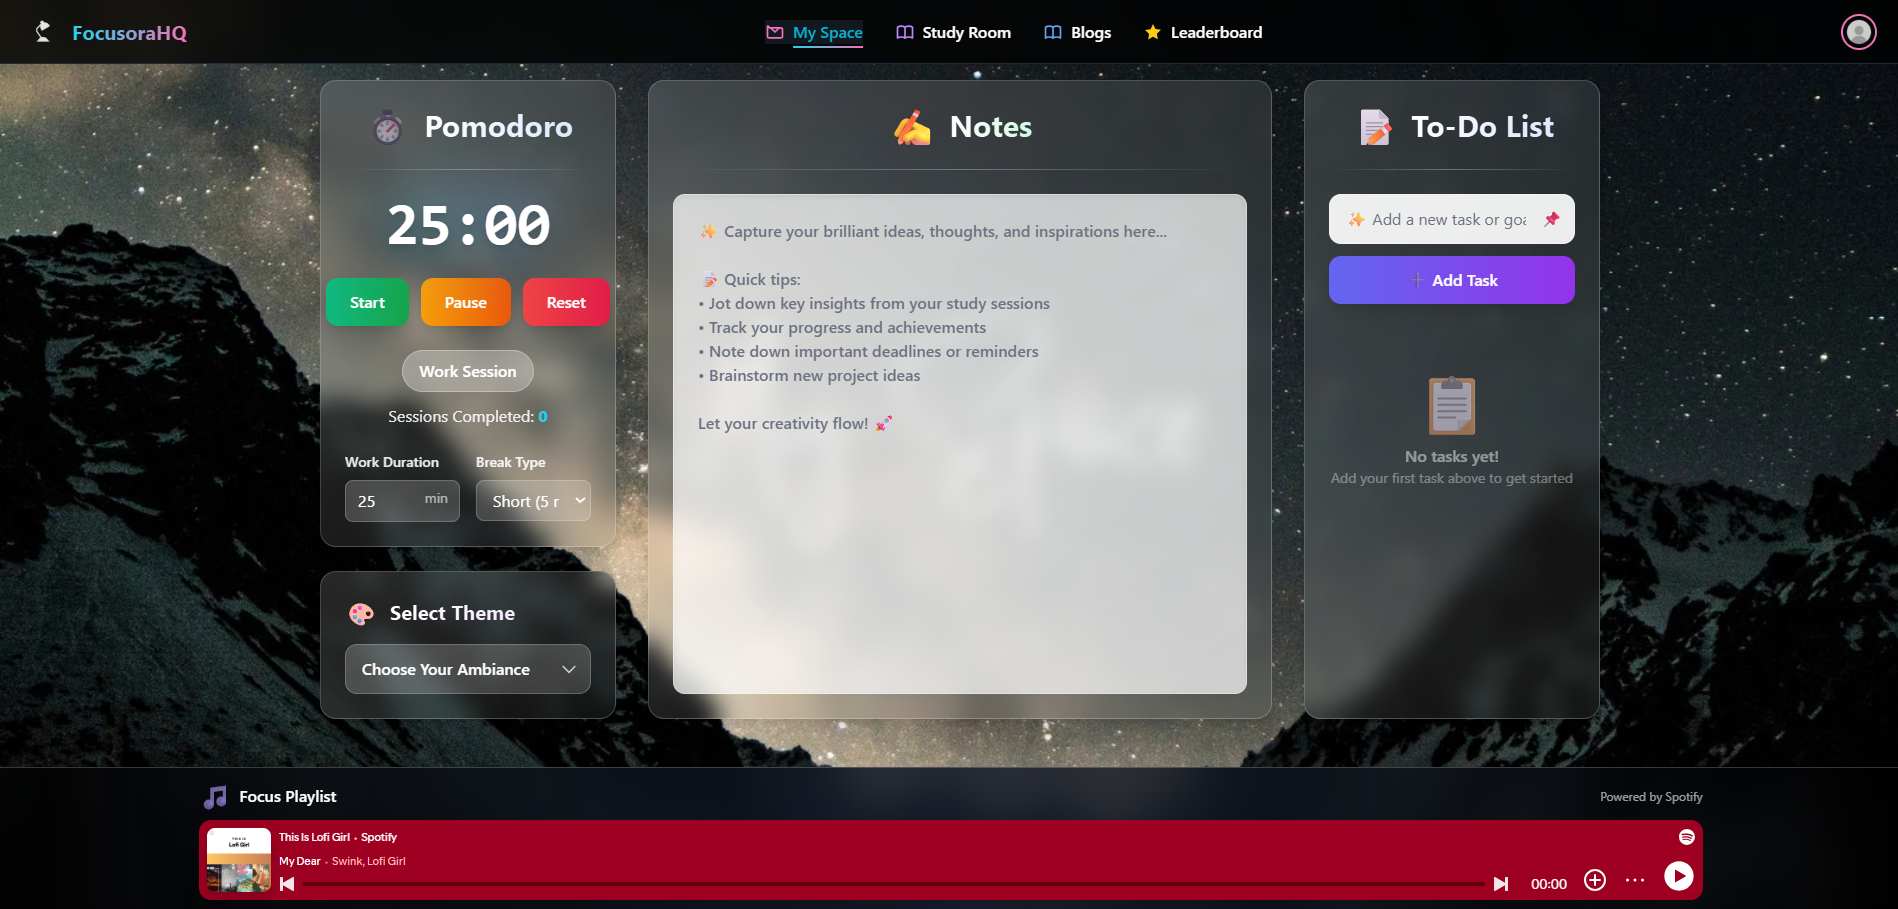
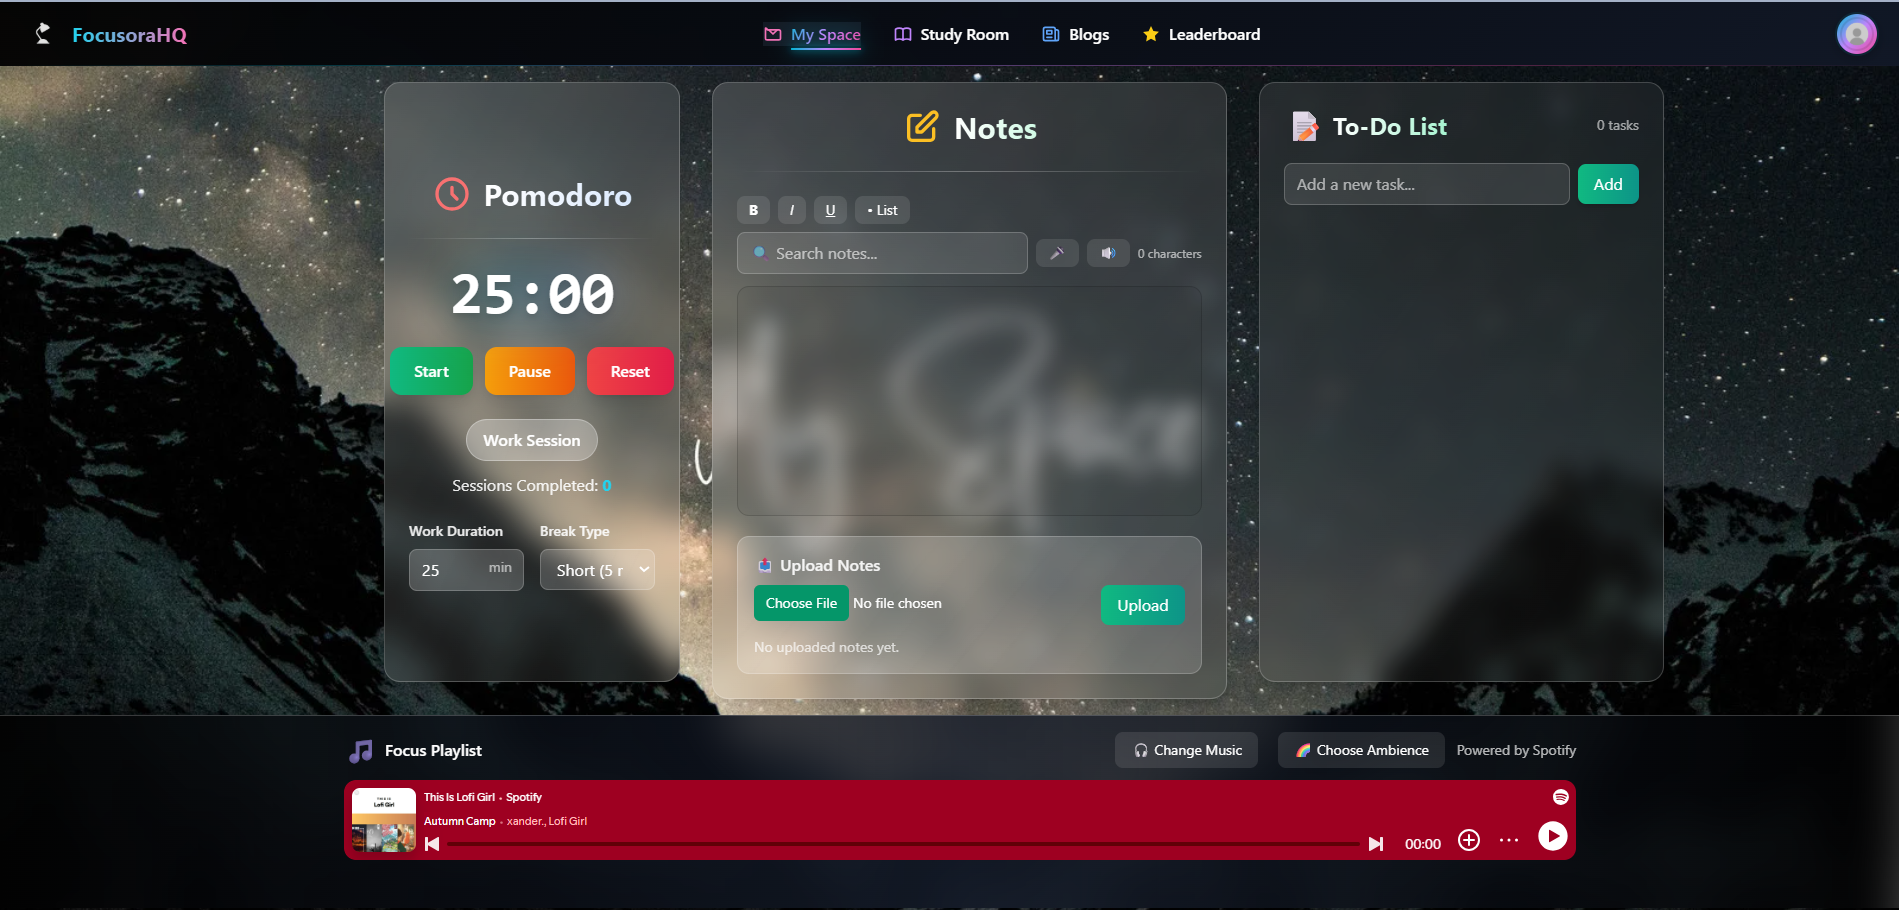
bugs fix

diff --git a/js/my_space.js b/js/my_space.js
@@ -175,3 +175,226 @@ function changeBackground(img) {
 
 
 // Notes: managed by study_room-1.js (notesArea contenteditable). Removed legacy textarea code to avoid conflicts.
+
+
+// ====== Persistent Notes and To-Do ======
+
+// NOTES - Save & Load
+document.addEventListener('DOMContentLoaded', () => {
+  const notesArea = document.getElementById('notesArea');
+  if (notesArea) {
+    // Load saved notes
+    const savedNotes = localStorage.getItem('userNotes');
+    if (savedNotes) notesArea.innerHTML = savedNotes;
+
+    // Save notes on input
+    notesArea.addEventListener('input', () => {
+      localStorage.setItem('userNotes', notesArea.innerHTML);
+    });
+  }
+
+  // TO-DO LIST - Save & Load
+  const taskInput = document.getElementById('taskInput');
+  const taskList = document.getElementById('taskList');
+  const taskCount = document.getElementById('taskCount');
+
+  if (taskList) {
+    const savedTasks = JSON.parse(localStorage.getItem('userTasks')) || [];
+    renderTasks(savedTasks);
+
+    // Add task function
+    window.addTask = function() {
+      const taskText = taskInput.value.trim();
+      if (taskText === "") return;
+      savedTasks.push({ text: taskText, done: false });
+      localStorage.setItem('userTasks', JSON.stringify(savedTasks));
+      renderTasks(savedTasks);
+      taskInput.value = "";
+    };
+
+    // Render task list
+    function renderTasks(tasks) {
+      taskList.innerHTML = "";
+      tasks.forEach((task, i) => {
+        const li = document.createElement('li');
+        li.className = `flex justify-between items-center p-3 rounded-lg border border-white/20 bg-white/10`;
+        li.innerHTML = `
+          <span class="flex-1 cursor-pointer ${task.done ? 'line-through opacity-60' : ''}" onclick="toggleTask(${i})">${task.text}</span>
+          <button onclick="deleteTask(${i})" class="ml-3 text-red-400 hover:text-red-600 transition">🗑</button>
+        `;
+        taskList.appendChild(li);
+      });
+      taskCount.textContent = `${tasks.length} tasks`;
+    }
+
+    // Toggle task done/undone
+    window.toggleTask = function(index) {
+      savedTasks[index].done = !savedTasks[index].done;
+      localStorage.setItem('userTasks', JSON.stringify(savedTasks));
+      renderTasks(savedTasks);
+    };
+
+    // Delete task
+    window.deleteTask = function(index) {
+      savedTasks.splice(index, 1);
+      localStorage.setItem('userTasks', JSON.stringify(savedTasks));
+      renderTasks(savedTasks);
+    };
+  }
+});
+
+/* ---------- UPLOADED NOTES (persist in localStorage) ---------- */
+  const uploadInput = document.getElementById('uploadNotes');
+  const uploadedList = document.getElementById('uploadedNotes');
+
+  // load stored uploads
+  const savedUploads = JSON.parse(localStorage.getItem('uploadedNotes')) || [];
+  renderUploads(savedUploads);
+
+  // attach global upload handler (HTML button calls uploadFile())
+  window.uploadFile = function() {
+    const files = (uploadInput && uploadInput.files) ? Array.from(uploadInput.files) : [];
+    if (!files.length) {
+      alert('Please choose a file to upload.');
+      return;
+    }
+
+    // limit per-file size (soft guard for localStorage)
+    const MAX_FILE_BYTES = 5 * 1024 * 1024; // 5 MB
+
+    // read each file as dataURL and save
+    let reads = files.map(file => {
+      return new Promise((resolve) => {
+        if (file.size > MAX_FILE_BYTES) {
+          // skip large files
+          resolve({ skipped: true, name: file.name, reason: 'size' });
+          return;
+        }
+        const reader = new FileReader();
+        reader.onload = (e) => {
+          const dataUrl = e.target.result;
+          resolve({
+            skipped: false,
+            entry: {
+              name: file.name,
+              type: file.type || 'application/octet-stream',
+              size: file.size,
+              dataUrl,
+              uploadedAt: new Date().toISOString()
+            }
+          });
+        };
+        reader.onerror = () => {
+          resolve({ skipped: true, name: file.name, reason: 'read_error' });
+        };
+        reader.readAsDataURL(file);
+      });
+    });
+
+    Promise.all(reads).then(results => {
+      let anyAdded = false;
+      results.forEach(r => {
+        if (r.skipped) {
+          console.warn('Skipped upload:', r.name, r.reason);
+        } else if (r.entry) {
+          savedUploads.push(r.entry);
+          anyAdded = true;
+        }
+      });
+
+      try {
+        // try to save - localStorage may throw if quota exceeded
+        localStorage.setItem('uploadedNotes', JSON.stringify(savedUploads));
+        if (anyAdded) {
+          renderUploads(savedUploads);
+          // clear file input
+          uploadInput.value = "";
+          alert('Upload saved.');
+        } else {
+          alert('No files were added. Files larger than 5 MB are skipped to avoid storage issues.');
+        }
+      } catch (e) {
+        console.error('Saving uploaded files failed:', e);
+        alert('Failed to save uploads — storage might be full. Consider removing some saved items or use a backend.');
+      }
+    });
+  };
+
+  // render uploads list
+  function renderUploads(list) {
+    if (!uploadedList) return;
+    uploadedList.innerHTML = '';
+    if (!list.length) {
+      uploadedList.innerHTML = '<li class="text-white/70">No uploaded notes yet.</li>';
+      return;
+    }
+
+    list.forEach((entry, index) => {
+      const li = document.createElement('li');
+      li.className = 'flex items-center justify-between p-2 rounded-md';
+
+      // show name + small meta, and download link
+      const meta = document.createElement('div');
+      meta.className = 'flex-1 truncate';
+      const nameEl = document.createElement('a');
+      nameEl.href = entry.dataUrl;
+      nameEl.download = entry.name;
+      nameEl.title = entry.name;
+      nameEl.className = 'underline text-sm truncate';
+      nameEl.textContent = entry.name;
+      meta.appendChild(nameEl);
+
+      const info = document.createElement('div');
+      info.className = 'text-xs text-white/60 ml-3';
+      const sizeKb = Math.round(entry.size/1024);
+      info.textContent = ` ${sizeKb} KB • ${new Date(entry.uploadedAt).toLocaleString()}`;
+
+      const right = document.createElement('div');
+      right.className = 'flex items-center gap-2 ml-4';
+      const openBtn = document.createElement('a');
+      openBtn.href = entry.dataUrl;
+      openBtn.target = '_blank';
+      openBtn.className = 'px-2 py-1 bg-white/5 rounded text-sm';
+      openBtn.textContent = 'Open';
+      openBtn.rel = 'noopener noreferrer';
+
+      const dlBtn = document.createElement('a');
+      dlBtn.href = entry.dataUrl;
+      dlBtn.download = entry.name;
+      dlBtn.className = 'px-2 py-1 bg-white/5 rounded text-sm';
+      dlBtn.textContent = 'Download';
+
+      const delBtn = document.createElement('button');
+      delBtn.className = 'ml-2 text-red-400 hover:text-red-600 text-sm';
+      delBtn.textContent = 'Delete';
+      delBtn.onclick = () => {
+        if (!confirm(`Delete "${entry.name}" from saved uploads?`)) return;
+        savedUploads.splice(index, 1);
+        try {
+          localStorage.setItem('uploadedNotes', JSON.stringify(savedUploads));
+        } catch (e) {
+          console.error('Could not update uploads after delete', e);
+        }
+        renderUploads(savedUploads);
+      };
+
+      li.appendChild(meta);
+      li.appendChild(info);
+      right.appendChild(openBtn);
+      right.appendChild(dlBtn);
+      right.appendChild(delBtn);
+      li.appendChild(right);
+
+      uploadedList.appendChild(li);
+    });
+  }
+
+  // small helper: escape HTML for text nodes (used in task rendering)
+  function escapeHtml(str) {
+    return (str + '').replace(/[&<>"'`=\/]/g, function(s) {
+      return {
+        '&': '&amp;', '<': '&lt;', '>': '&gt;', '"': '&quot;',
+        "'": '&#39;', '/': '&#x2F;', '`': '&#x60;', '=': '&#x3D;'
+      }[s];
+    });
+  }

diff --git a/pages/my_space.html b/pages/my_space.html
@@ -48,15 +48,15 @@
   class="min-h-screen w-screen bg-cover bg-center bg-fixed dark:bg-gray-900 dark:text-gray-100 overflow-x-hidden pb-6"
   style="background-image: url(https://marketplace.canva.com/EAFekpb5NK0/1/0/1600w/canva-dark-modern-photo-mountain-and-sky-desktop-wallpaper-5ixgVU5XGxc.jpg);">
 
-  <div class="app-sidebar"></div>
+ <nav class="navbar"></nav>
 
-  <div class="container mx-auto px-4 py-8 pb-4 md:ml-20">
+  <div class="container mx-auto px-4 py-8 pb-4 md:ml-4 pt-20">
     <div class="grid grid-cols-1 xl:grid-cols-12 gap-6 lg:gap-8 max-w-7xl mx-auto items-start">
 
       <!-- Pomodoro -->
       <div id="pomodoro" class="xl:col-span-3 self-start">
         <div
-          class="group relative overflow-hidden rounded-2xl bg-gradient-to-br from-white/15 via-white/10 to-white/5 backdrop-blur-md border border-white/20 shadow-xl transition-all duration-300 h-full min-h-[600px] flex flex-col">
+          class="group relative overflow-hidden rounded-2xl bg-gradient-to-br from-white/15 via-white/10 to-white/5 backdrop-blur-lg border border-white/20 shadow-xl transition-all duration-300 h-full min-h-[600px] flex flex-col">
           <div
             class="absolute inset-0 bg-gradient-to-br from-blue-500/5 to-purple-500/5 opacity-0 group-hover:opacity-100 transition-opacity duration-300">
           </div>
@@ -135,7 +135,7 @@
       </div>
 
       <!-- Notes -->
-      <div id="notes" class="xl:col-span-6 self-start">
+  <div id="notes" class="xl:col-span-5 self-start">
         <div
           class="group relative overflow-hidden rounded-2xl bg-gradient-to-br from-white/15 via-white/10 to-white/5 backdrop-blur-md border border-white/20 shadow-xl transition-all duration-300 h-full min-h-[600px]">
           <div
@@ -212,7 +212,7 @@
 
       <!-- To-Do -->
       <section
-        class="item-blur todo-card self-start md:col-span-3 xl:col-span-3 group relative overflow-hidden rounded-2xl border border-white/20 shadow-xl transition-all duration-300 p-6 flex flex-col hover:shadow-2xl min-h-[600px]">
+        class="item-blur todo-card self-start md:col-span-3 xl:col-span-4 group relative overflow-hidden rounded-2xl border border-white/20 shadow-xl transition-all duration-300 p-6 flex flex-col hover:shadow-2xl min-h-[600px]">
         <div class="relative flex items-center justify-between mb-5">
           <div class="flex items-center">
             <span class="text-3xl mr-2">📝</span>
@@ -365,7 +365,8 @@
   <script src="../js/my_space.js"></script>
   <script src="../js/sidebar.js"></script>
   <script src="../js/script.js"></script>      
-  <script src="../js/study_room-1.js"></script>      
+  <script src="../js/study_room-1.js"></script>  
+  <script src="../js/Navbar.js"></script>    
 </body>
 
 </html>

diff --git a/js/study_room-1.js b/js/study_room-1.js
@@ -505,14 +505,27 @@ document.getElementById('chatInput').addEventListener('keydown', (e) => {
 
 // ============ BACKGROUND ============
 function changeBackground(url) {
-  if (url) {
-    document.getElementById('bgLayer').style.backgroundImage = `url(${url})`;
-    localStorage.setItem('focusora_bg', url);
-    showNotification('🎨', 'Background Changed', 'New ambiance applied');
-    // Close the background selector panel after choosing (mirror music behavior)
-    const panel = document.getElementById('bgSelectorPanel');
-    if (panel && panel.classList.contains('opacity-100')) toggleBgSelector();
+  if (!url) return;
+
+  const bgLayer = document.getElementById('bgLayer');
+  if (bgLayer) {
+    bgLayer.style.backgroundImage = `url(${url})`;
+  } else {
+    // fallback to page background (some pages don't include #bgLayer)
+    const body = document.getElementById('main-body') || document.body;
+    if (body) {
+      body.style.backgroundImage = `url(${url})`;
+      body.style.backgroundSize = 'cover';
+      body.style.backgroundRepeat = 'no-repeat';
+      body.style.backgroundPosition = 'center';
+    }
   }
+
+  try { localStorage.setItem('focusora_bg', url); } catch (e) {}
+  showNotification('🎨', 'Background Changed', 'New ambiance applied');
+  // Close the background selector panel after choosing (mirror music behavior)
+  const panel = document.getElementById('bgSelectorPanel');
+  if (panel && panel.classList.contains('opacity-100')) toggleBgSelector();
 }
 
 function toggleBgSelector() {
@@ -659,7 +672,18 @@ window.onload = function () {
 
   const savedBg = localStorage.getItem('focusora_bg');
   if (savedBg) {
-    document.getElementById('bgLayer').style.backgroundImage = `url(${savedBg})`;
+    const bgLayer = document.getElementById('bgLayer');
+    if (bgLayer) {
+      bgLayer.style.backgroundImage = `url(${savedBg})`;
+    } else {
+      const body = document.getElementById('main-body') || document.body;
+      if (body) {
+        body.style.backgroundImage = `url(${savedBg})`;
+        body.style.backgroundSize = 'cover';
+        body.style.backgroundRepeat = 'no-repeat';
+        body.style.backgroundPosition = 'center';
+      }
+    }
   }
   // restore dark mode preference
   const savedDark = localStorage.getItem('focusora_dark');

diff --git a/pages/study_room-1.html b/pages/study_room-1.html
@@ -402,7 +402,7 @@
     </div>
   </div>
 
-  <footer class="footer"></footer>
+  <!-- <footer class="footer"></footer> -->
 
   <script>
 
